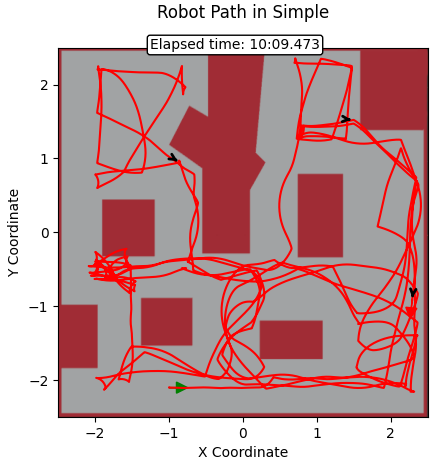
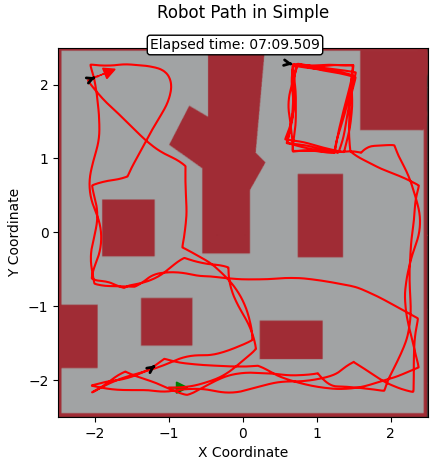
feat(report): update 7min zero-collision tests, new trajectory plots and analysis

Changed region(s): [[0.1793, 0.0609, 0.9862, 0.8826], [0.6276, 0.3957, 0.6575, 0.5174], [0.5678, 0.0913, 0.6276, 0.1217]]

diff --git a/kapituluak/02_oztopoak.tex b/kapituluak/02_oztopoak.tex
@@ -31,7 +31,7 @@ Honen bidez, zuzen doanean $0{,}30$~m/s-ko abiadura du, $\text{turn} = \pm 0{,}3
 
 Bigarren kasuan (saihesteko biraketa), aurrera egiteko baldintza betetzen ez denean, abiadura lineala gelditu ($\text{speed} = 0{,}0$) eta biraketari ematen diogu lehentasun osoa. Biratzeko noranzkoa maniobraren hasieran bakarrik finkatzen dugu: $l \ge r$ bada ezkerrera, bestela eskuinera. Maniobra hastean tarte handiena duen aldera biratzen du, eta noranzko horri eusten dio maniobra amaitu arte. Maniobra $0{,}30$~m-ra hasten da, baina ez da berriro aurrera abiatzen aurrean gutxienez $0{,}60$~m libre izan arte ($2 \times \text{atalasea}$). Bi atalase erabilita, aurrean tarte handiagoa izatea bilatzen dugu.
 
-Hirugarren kasuan (atzerako bultzada saihestean), saihesteko maniobran bi alboetako distantzien arteko aldea gehienez $0{,}10$~m bada eta $b > 0{,}10$~m bada, atzera egiten du $0{,}15$~m/s-ko abiadurarekin, biratzen jarraituz. Baldintza irakurketa bakoitzean egiaztatzen da; kodeak ez du atzera egiteko denbora finkorik ezartzen. Hasieran atzera egiteko maniobra luzeagoak eta distantzia-atalase handiagoak probatu genituen, baina laborategian egiaztatu genuen horrek esplorazioa nabarmen kaltetzen zuela: pasabide estuetan sartu beharrean, robotak atzera egiten zuen eta eremu berriak esploratzeari uzten zion. Horregatik, atzerako maniobra alboetako distantziak antzekoak diren egoeretara mugatu dugu. Atzeko sektorea ere begiratzen dugu, baina $b > 0{,}10$~m baldintzak bakarrik ez du maniobra osoaren segurtasuna bermatzen.
+Hirugarren kasuan (atzerako bultzada saihestean), saihesteko maniobran bi alboetako distantzien arteko aldea gehienez $0{,}10$~m bada eta atzean nahikoa tarte badago ($b > 0{,}15$~m), atzera egiten du $0{,}15$~m/s-ko abiadurarekin, biratzen jarraituz. Orain oso gutxitan egiten du atzera, baina ebakuazio-mekanismo gisa funtzionatzen du eta oso ondo etorri zaigu puntu oso zehatzetan trabatuta ez geratzeko. Baldintza irakurketa bakoitzean egiaztatzen da; kodeak ez du atzera egiteko denbora finkorik ezartzen. Hasieran atzera egiteko maniobra luzeagoak eta distantzia-atalase handiagoak probatu genituen, baina laborategian egiaztatu genuen horrek esplorazioa nabarmen kaltetzen zuela: pasabide estuetan sartu beharrean, robotak atzera egiten zuen eta eremu berriak esploratzeari uzten zion. Horregatik, atzerako maniobra alboetako distantziak antzekoak diren egoeretara mugatu dugu eta atzeko segurtasun-tartea $0{,}15$~m-ra doitu dugu.
 
 Ondoko zatian sektoreen kalkulua eta mugimenduaren hiru kasuak ageri dira. Noraezaren eta irekiguneen arauak hurrengo atalean azaltzen ditugu.
 
@@ -55,7 +55,7 @@ else:
     if not self._avoiding:
         self._avoiding = True
         self._turn_dir = 1 if l >= r else -1
-    if abs(l - r) <= 0.1 and b > 0.1:
+    if abs(l - r) <= 0.1 and b > 0.15:
         speed = -0.15
     turn = 0.8 * self._turn_dir
 \end{lstlisting}
@@ -78,14 +78,12 @@ Gure robotak ez du gordetzen non ibili den. Horregatik, bidegurutze berera itzul
 \needspace{4\baselineskip}
 \section[Zenbat denbora egon daiteke funtzionamenduan talkarik jasan gabe? (gehienez 10 min)][Talkarik gabeko funtzionamendua]{Zenbat denbora egon daiteke funtzionamenduan talkarik jasan gabe? (gehienez 10 min)}\label{sec:oz-emaitzak}
 
-Hamar minutuko hiru probetan, lehen kontaktua $151{,}4$~s, $321{,}9$~s eta $495{,}6$~s igaro ondoren gertatu zen, hurrenez hurren. Hirugarren proban egon zen robota denbora gehien talkarik gabe: 8~minutu eta 16~segundo inguru. Hiru probetan lehen kontaktua hamar minutuak bete aurretik gertatu zen.
+Atalaseak doitu ondoren ($b > 0{,}15$~m ezarrita), zazpi minutuko hiru proba berri osatu ditugu (5,2 minutu simulatu inguru) inolako talkarik gabe: Gazeboko kontaktu-sentsoreak 0 kolpe erregistratu zituen hiru saioetan. Hasierako probetan kontaktu puntualak gertatu baziren ere, atzeko segurtasun-distantzia handituta robota etengabe eta seguru mugitzea lortu dugu.
 
 \needspace{6\baselineskip}
 \subsection{Denbora horretan ingurune osora mugitzen da robota edo eskualde jakin batera mugatzen da?}\label{sec:oz-ibilbideak}
 
-Lehen kontaktua gertatu aurretik, bigarren proban robota goiko ezkerreko eremura iritsi zen, 128. segundo inguruan. Lehen proban ez zen hara iritsi. Hirugarrenean, berriz, eremu horren barruan hasi zen.
-
-Hurrengo irudiek hamar minutuko ibilbide osoak erakusten dituzte, lehen kontaktuaren ondorengo mugimendua ere barne. $x$ ardatza horizontala da, eta $y$ ardatza bertikala.
+Hurrengo irudiek zazpi minutuko ibilbide osoak erakusten dituzte. $x$ ardatza horizontala da, eta $y$ ardatza bertikala.
 
 \begin{figure}[htbp]
   \centering\vspace{-0.5\baselineskip}
@@ -110,7 +108,7 @@ Hurrengo irudiek hamar minutuko ibilbide osoak erakusten dituzte, lehen kontaktu
     \label{fig:traj-p3}
   \end{subfigure}
   \vspace{-0.5\baselineskip}
-  \caption[Robotaren ibilbide errealak 10 minutuko probetan]{Robotaren ibilbide errealak 10 minutuko probetan (\texttt{path\_plotter}). Gorriz adierazten da robotaren ibilbidea.}\label{fig:ibilbideak}
+  \caption[Robotaren ibilbide errealak 7 minutuko probetan]{Robotaren ibilbide errealak 7 minutuko probetan (\texttt{path\_plotter}). Gorriz adierazten da robotaren ibilbidea.}\label{fig:ibilbideak}
 \end{figure}
 
 \clearpage
@@ -118,15 +116,15 @@ Lehenengo proban (\ref{fig:traj-p1}.~irudia), ohiko hasieratik abiatuta, ez da g
 
 Bigarren proban (\ref{fig:traj-p2}.~irudia), beheko ezkerretik hasita, pasabidera iritsi eta goiko ezkerreko eremuan sartzen da. Honek frogatzen du gure kodeak baduela pasabide estua zeharkatzeko gaitasuna. Alabaina, lehen probarekin alderatuta ikusten da ez duela sarrera beti aurkitzen.
 
-Hirugarren proban (\ref{fig:traj-p3}.~irudia), goiko ezkerreko gelaren barrutik hasten denean, pasabidetik irten eta proba amaitu arte ez zen itzuli.
+Hirugarren proban (\ref{fig:traj-p3}.~irudia), goiko ezkerreko gelaren barrutik hasten denean, pasabidetik irten eta mapan zehar mugitu zen, baina ez zen goiko eskuineko eremuan sartu.
 
 \textbf{Robotaren hasierako posizioa aldatuta, joera berdina erakusten al du?}
 
-Hiru hasieretatik ibilbide desberdinak lortu genituen, baina toki beretara itzultzeko joera mantendu zen. Ausazko biraketek ere eragina dutenez, hasiera beretik beste ibilbide bat egin dezake robotak.
+Hiru hasieretatik ibilbide desberdinak lortu genituen, baina ausazkotasunak pisu handia du: hirugarren proban, adibidez, ez zen goiko eskuineko eremura iritsi. Ausazko biraketek eta noraezak eraginda, hasiera beretik beste ibilbide bat egin dezake robotak.
 
 \needspace{3\baselineskip}
 \subsection{Zeintzuk dira egoera arriskutsuak?}\label{sec:oz-arriskuak}
 
-Mapako eremu irekietan nabigazioa garbia eta segurua da; kontaktuak mapa osoko gune estuenetan pilatu ziren: ezkerreko pasabidean eta beheko ezkerreko izkina itxian.
+Garapenean zehar gerra gehien eman ziguten arrisku-guneak ezkerreko pasabide estua eta beheko ezkerreko izkina itxia izan ziren. Gune horietan espazioa oso murritza denez, hasierako probetan robotaren kaxa errektangularrak hormak igurtzi zitzakeen, batez ere biraketetan.
 
-Gune estu horietan, robotak atzera egin dezake bi alboetako distantziak antzekoak badira eta atzean nahikoa tarte badu. Baliteke kontaktuetako batzuk atzera egin eta biratzean gertatu izana, robotaren atzeko ertza hormara hurbiltzen baita maniobra horretan. Gure aldetik atalase horiek hobeto kalibratu beharko genituzke eremu hain estuetarako, atzeko segurtasun-marjina handituz.
+Atalaseak doituta (bereziki atzeko segurtasun-distantzia $b > 0{,}15$~m-ra handituz), arrisku hori gainditzea lortu dugu eta azken probetan ez da inolako talkarik gertatu. Orain robotak oso gutxitan egiten du atzera, baina ebakuazio-mekanismo hori oso ondo etorri zaigu une jakinetan egoera oso itxietatik askatzeko eta nabigazio leunari eusteko.

diff --git a/kapituluak/laburpena.tex b/kapituluak/laburpena.tex
@@ -1,5 +1,5 @@
 Praktika honetan bi portaera nagusi garatu eta ebaluatu ditugu ROSMASTER~X3 robotarekin, ROS~2 ingurunean.
 
-Lehenengo zatian, robotak LiDAR sentsorearen bidez Gazeboko \texttt{simple} munduan oztopoak modu erreaktiboan saihesteko portaera aztertzen da. Ingurunea lau sektoretan banatu dugu (aurrea, eskuina, ezkerra eta atzea), sektore bakoitzeko bosgarren distantziarik txikiena hartuz neurketa okerrak iragazteko. Maniobrak leuntzeko ausazko noraez iragazia ($0{,}9$), alboko irekiguneetara jotzeko probabilitate-araua eta bi segurtasun-atalase ($0{,}30$~m eta $0{,}60$~m) txertatu ditugu. Hamar minutuko probetan robotaren benetako posizioa eta kontaktuak aztertu dira. Emaitzek erakusten dute robotak ingurunearen zati handiena arazorik gabe zeharkatzen duela, baina bere neurriek eta sentsorearen kokapenak biraketetan hormen aurkako igurtzi arinak eragiten dituztela (lehen kontaktua 2{,}5--8{,}3 minutura).
+Lehenengo zatian, robotak LiDAR sentsorearen bidez Gazeboko \texttt{simple} munduan oztopoak modu erreaktiboan saihesteko portaera aztertzen da. Ingurunea lau sektoretan banatu dugu (aurrea, eskuina, ezkerra eta atzea), sektore bakoitzeko bosgarren distantziarik txikiena hartuz neurketa okerrak iragazteko. Maniobrak leuntzeko ausazko noraez iragazia ($0{,}9$), alboko irekiguneetara jotzeko probabilitate-araua eta bi segurtasun-atalase ($0{,}30$~m eta $0{,}60$~m) txertatu ditugu. Zazpi minutuko probetan robotaren benetako posizioa aztertu dugu. Atalaseak doituta (atzeko segurtasun-tartea $0{,}15$~m-ra handituz), robotak ingurune osoa talkarik egin gabe zeharkatzea lortu dugu, 0 kontaktu erregistratuz hiru hasierako posizioetatik.
 
 Bigarren zatian, aurreko kameratik jasotako irudi segmentatuaren bidez \texttt{yahboom\_track} zirkuituari jarraitu diogu kanpoaldetik. Kameraren 100--179 errenkaden bandan errepide-pixelen mediana kalkulatu dugu, eta erreferentzia 200. zutabean kokatuz (+40 pixeleko desplazamendua) kontrol proportzional asimetrikoa ezarri dugu ($K = 1{,}5$, $V_{\max} = 0{,}6$~m/s). Horrez gain, kurba itsuetan eskuinera biratzeko larrialdi-adarra eta barruko uhartea gertuegi dagoenean eskuinerako bira blokeatzen duen behe-eskuineko babesa gehitu ditugu. Robot errealean egindako 5 saiakeretan \%100eko arrakasta lortu dugu, bira bakoitzeko batez besteko denbora $20{,}82 \pm 0{,}51$~s izanik. Bateriaren egoerak eta kontrol-begiztaren eguneratze-maiztasunak portaeran duten eragin kritikoa ere frogatu dugu.
